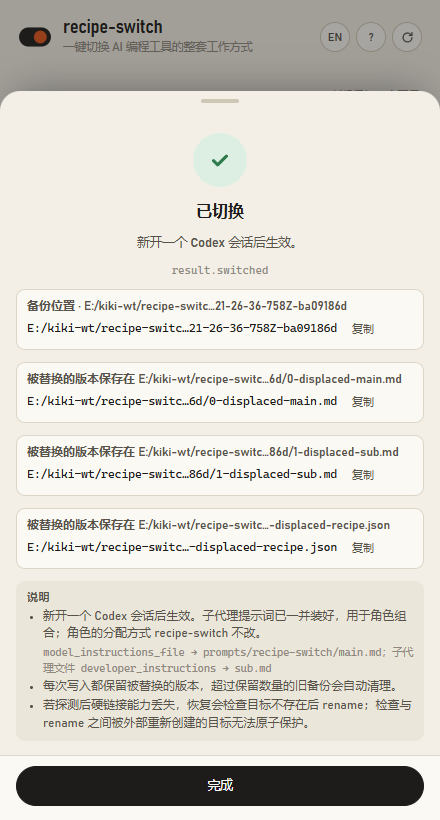
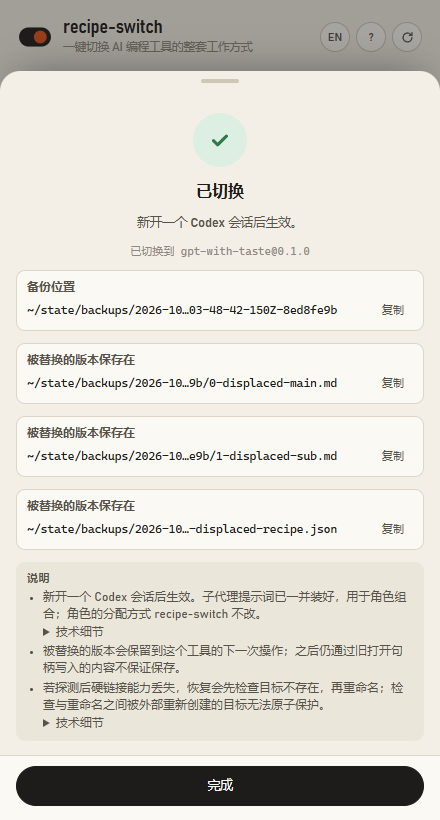
docs(R29): state recovery race, carrier cutoff and permission guarantees

Changed region(s): [[0.0295, 0.3354, 0.975, 0.8841], [0.0, 0.061, 1.0, 0.3354], [0.6795, 0.3049, 0.7091, 0.3354]]

diff --git a/README.md b/README.md
@@ -1,7 +1,7 @@
 # recipe-switch
 
 **Switch how your AI coding tools think and work.**
-*One click to install, switch, and roll back prompts, subagents, and per-turn reminders — with diff preview and byte-exact recovery.*
+*One click to install, switch, and roll back prompts, subagents, and per-turn reminders — with diff preview and original backups for recovery.*
 
 **English** · [简体中文](README.zh-CN.md) · [Documentation](https://nb-corp.github.io/recipe-switch/) · [中文文档](https://nb-corp.github.io/recipe-switch/zh/)
 
@@ -13,7 +13,7 @@ Normally, changing how your coding assistants work means hunting down different 
 
 We call that complete bundle of working instructions a **recipe**.
 
-**recipe-switch** is a zero-dependency local CLI and web panel (`127.0.0.1`) that installs, switches, customizes, and rolls back behavior recipes across **11 AI coding harnesses**. Every write shows a unified diff first, backs up your files, refuses to overwrite your manual edits silently, and restores your original setup byte-for-byte whenever you want out.
+**recipe-switch** is a zero-dependency local CLI and web panel (`127.0.0.1`) that installs, switches, customizes, and rolls back behavior recipes across **11 AI coding harnesses**. Every write shows a unified diff first, backs up your files, and blocks on manual edits unless you confirm an override. Rollback restores owned source spans; original snapshots restore complete saved file bytes, subject to the [recovery limits below](#safety-model).
 
 Requires **Node.js ≥ 22**. Zero npm dependencies.
 
@@ -27,8 +27,8 @@ Requires **Node.js ≥ 22**. Zero npm dependencies.
 - **Customizable with checkboxes.** Recipes can expose toggleable options (`--with` / `--without`) that include or exclude prompt files, prepend or append reminders, or patch specific Markdown sections on the fly.
 - **Diff preview before every write.** Every CLI command and UI action runs a dry-run diff first. Secrets (`Authorization`, `api_key`, `token`, `cookie`, `Bearer`) are redacted in the display while integrity checks compare exact bytes.
 - **Hand-edit protection.** Installed files and config keys carry a `managed by recipe-switch` marker and a recorded fingerprint. If you edit a managed file by hand, `recipe-switch` stops and warns you instead of clobbering your work. Confirming an override (`--force` or **Overwrite anyway (backed up)** in the UI) backs up your hand-edited version first.
-- **Byte-exact rollback and original backups.** Undo the latest switch (`rollback`), strip everything back to how your tool looked before (`uninstall`), or inspect and restore pre-install original snapshots (`originals` / `restore-original`).
-- **Leaves your models and credentials alone.** `recipe-switch` never edits your model selection, API provider, login credentials, MCP servers, or role definitions. Permissions stay untouched by default (OpenClaw's conversation-access hook key is only written if you explicitly check the opt-in box in the UI).
+- **Source-span rollback and original backups.** Undo the latest switch (`rollback`), remove owned changes (`uninstall`), or inspect and restore saved pre-install file bytes (`originals` / `restore-original`).
+- **Leaves your models and credentials alone.** `recipe-switch` never edits your model selection, API provider, login credentials, MCP servers, or role definitions. Harness authorization settings stay unchanged except for OpenClaw's explicit UI opt-in for conversation access; an existing denial still blocks installation. File permissions are handled separately: existing target DACLs (Windows) or owner/group and mode (POSIX) are applied to empty replacement files before payload, while recipe-switch's own storage is made private. If permissions cannot be secured or copied, writing stops.
 
 ![Diff preview before writing](docs/screenshots/ui-en-02-install.png)
 ![Hand edit blocks a switch until you decide](docs/screenshots/ui-en-03-blocked.png)
@@ -115,11 +115,11 @@ node bin/recipe-switch.mjs ui
 Editing local agent configurations should never feel risky. `recipe-switch` enforces seven layers of protection:
 
 1. **Preview before every write.** Every mutating CLI command defaults to dry-run mode and prints a unified diff (including line-ending and trailing-newline changes). You must pass `--yes` (or click **Write changes** in the UI) to touch the disk. If any file changes between preview and apply, the write aborts.
-2. **Hard-link preflight & automatic per-operation backups.** Before writing, `recipe-switch` stores exact pre-write bytes as deduplicated blobs and records them in `~/.recipe-switch/backups/<op-id>/index.json`. Hard links publish complete temporary files without replacing a new destination, so the preview stage first probes the target directory: **if the file system does not support hard links (common on FAT/exFAT and some network drives), the operation is blocked outright** with a notice that safe writes cannot be guaranteed there. When replacing an existing file on the same volume, the displaced old file is moved into the operation's backup directory, and **each harness keeps at most the most recent displaced version** — on the next operation it is deleted outright if already backed up, or saved into the new backup first if its content changed since. (Limit: content written through an old still-open file handle after that next operation is not guaranteed to survive.) On a cross-volume setup, the old file stays next to the target file, its path is recorded in the backup metadata and shown in the operation result, and `uninstall` will not delete it automatically.
+2. **Hard-link preflight & automatic per-operation backups.** Before writing, `recipe-switch` stores exact pre-write bytes as deduplicated blobs and records them in `~/.recipe-switch/backups/<op-id>/index.json`. Hard links publish complete temporary files without replacing a new destination, so the preview stage first probes the target directory: **if the file system does not support hard links (common on FAT/exFAT and some network drives), the operation is blocked outright** with a notice that safe writes cannot be guaranteed there. On the same volume, the displaced old file moves into the operation's backup directory; across volumes, it stays beside the target and its path appears in the backup metadata and result. **Each affected file path retains at most its latest displaced version.** Both locations follow the same retirement rules: the next related committed operation (including `uninstall`) reads and retires the prior carrier, saving changed bytes as a later-version blob first. The cutoff is **that one read when the tool's next operation retires the old version**, not the end of the operation; writes through an old open handle after that read are not guaranteed to survive. Uninstall may itself leave a new latest carrier.
 3. **Minimal, marked ownership.** Outside its own `recipe-switch/` directories (and Kimi Code's marked `SYSTEM.md` wrapper), `recipe-switch` only claims individual TOML lines (`# managed by recipe-switch`), single JSON keys or array items/records, or a single YAML block-list item. Unrelated keys, comments, and formatting spans in your config files are preserved.
 4. **Hand-edit drift detection.** Before switching, rolling back, or uninstalling, `recipe-switch` compares the live file against the fingerprint recorded when it was written. If you edited a managed prompt or removed a marker comment, the operation blocks. You can move your edits aside, or explicitly confirm an override (`--force` / **Overwrite anyway (backed up)**), which backs up your hand-edited version before replacing it.
-5. **Byte-exact rollback and uninstall.** `rollback` steps back one operation to your previous recipe (or original state). `uninstall` unwinds the entire stack for that harness, restores the original source spans (including whitespace and escaped JSON strings), and removes directories created by the loader if they are empty.
-6. **Original state backup & restore ("原始备份 / 恢复到装之前") — counted per install cycle.** One baseline snapshot is taken when a harness goes from not-installed to installed (`recipe-switch originals <harness>` and `recipe-switch restore-original <harness> [--yes]`, or **原始备份 / 恢复到装之前** in the UI), and it is not overwritten for the rest of that cycle; the snapshot date is shown next to the restore button. Uninstalling or restoring to the pre-install state ends the cycle, retires the snapshot, and immediately releases unreferenced blobs; the next install starts a fresh cycle. Installations upgraded from an older version backfill the snapshot from existing records, and where the complete original bytes are unrecoverable the snapshot is marked as a **reconstructed version** that needs an extra confirmation before restoring; when the harness is already at its pre-install state the button is disabled. Only existing files that will be modified in place are snapshotted, contents are stored once by SHA-256, and the backup directory is readable only by the current user (`icacls` on Windows, `0700`/`0600` on POSIX).
+5. **Rollback and uninstall restore original bytes/spans.** `rollback` steps back one operation; `uninstall` unwinds the target's stack, restores original source spans (including whitespace and escaped JSON strings), and removes empty directories created by the loader. **Known recovery race:** if hard links become unavailable and recovery falls back to rename, a target externally recreated between the absence check and rename will be overwritten. Stop other writers before recovery; if it stays pending, preserve the current file and follow the reported backup/recovery steps.
+6. **Original state backup & restore ("原始备份 / 恢复到装之前") — counted per install cycle.** One baseline snapshot is taken when a harness goes from not-installed to installed (`recipe-switch originals <harness>` and `recipe-switch restore-original <harness> [--yes]`, or **原始备份 / 恢复到装之前** in the UI), and it is not overwritten for the rest of that cycle; the snapshot date is shown next to the restore button. Uninstalling or restoring to the pre-install state ends the cycle, retires the snapshot, and immediately releases unreferenced blobs; the next install starts a fresh cycle. Installations upgraded from an older version backfill the snapshot from existing records, and where the complete original bytes are unrecoverable the snapshot is marked as a **reconstructed version** that needs an extra confirmation before restoring; when the harness is already at its pre-install state the button is disabled. Only existing files that will be modified in place are snapshotted, contents are stored once by SHA-256, and the whole state tree is secured before payload: Windows removes other accounts' grants while allowing existing SYSTEM/Administrators grants; POSIX uses `0700` directories and `0600` files. Existing files and explicit Everyone/Users grants are included. Failure stops writing.
 7. **Strict scope & localhost isolation.** Canonical path checks ensure no symlink or Windows junction can redirect writes outside the target harness home. The web UI binds strictly to `127.0.0.1`, requires a per-process random token (`x-recipe-switch-token`), and rejects cross-origin requests.
 
 ---

diff --git a/README.zh-CN.md b/README.zh-CN.md
@@ -1,7 +1,7 @@
 # recipe-switch
 
 **一键切换 AI 编程工具的整套工作方式。**
-*主提示词、子代理分工与每轮纠偏提醒，先看 diff 再落盘，随时逐字节还原。*
+*主提示词、子代理分工与每轮纠偏提醒，先看 diff 再落盘，保留原始备份供回滚。*
 
 [English](README.md) · **简体中文** · [中文文档](https://nb-corp.github.io/recipe-switch/zh/) · [Documentation (EN)](https://nb-corp.github.io/recipe-switch/)
 
@@ -13,7 +13,7 @@
 
 我们把这一整套协同工作的行为指令打包在一起，叫做一份**配方（Recipe）**。
 
-**recipe-switch** 是一个零 npm 依赖的本地命令行工具与竖屏小面板（只监听 `127.0.0.1`），支持在 **11 款主流 AI 编程工具（harness）** 之间一键安装、切换、勾选定制和回滚配方。每次写入前都会先展示逐文件 diff 预览、自动备份原文件、识别到你的手动修改时拒绝静默覆盖，并能随时逐字节恢复到修改前甚至安装前的原始状态。
+**recipe-switch** 是一个零 npm 依赖的本地命令行工具与竖屏小面板（只监听 `127.0.0.1`），支持在 **11 款主流 AI 编程工具（harness）** 之间一键安装、切换、勾选定制和回滚配方。每次写入前先展示逐文件 diff、备份原文件；检测到手改时，除非你明确确认覆盖，否则会阻断。回滚恢复受管源码跨度，原始快照恢复保存的完整文件字节；[下方安全机制](#安全与回滚机制)说明恢复边界。
 
 环境要求：**Node.js ≥ 22**，零第三方 npm 依赖。
 
@@ -27,8 +27,8 @@
 - **带复选框的配方选项。** 配方作者可以定义可勾选的开关（`--with` / `--without`），按需增减段落文件、在槽位前后追加提醒，或者直接定位某个 Markdown 标题做章节级修补。
 - **每次落盘前先看 Diff。** 无论是 CLI 还是本地面板，所有写操作默认先跑预览（dry run），清晰列出每个文件的增删行。形如 `Authorization`、`api_key`、`token`、`cookie`、`Bearer` 的敏感字段在预览界面会自动脱敏显示，而底层校验依然比对真实字节。
 - **手改检测，拒绝静默覆盖。** 托管的文件和配置行都会打上 `managed by recipe-switch` 标记并记录指纹。如果你事后手动改过提示词或删改了标记，切换、撤回和卸载都会立刻停下提醒你；只有当你明确确认"仍然覆盖（先备份）"（CLI 传 `--force`）时才会继续，并且会先把你的手改版本完整备份下来。
-- **逐字节回滚与原始状态恢复。** 可以用 `rollback` 撤回上一步回到上一份配方，用 `uninstall` 卸载全部改动还原现场，也可以用原始备份功能（`originals` / `restore-original`，UI 中的"原始备份 / 恢复到装之前"）直接恢复到第一次使用 `recipe-switch` 之前的初始状态。
-- **绝不越界碰你的模型与认证。** `recipe-switch` 只管行为提示层，绝不修改你的模型选择、API provider、登录凭据、MCP 服务或角色定义。默认不改任何权限配置（唯一的例外是 OpenClaw 的非内置插件对话访问权限，也只有在你在 UI 里主动勾选授权后才会写入，且卸载时恢复原样）。
+- **源码跨度回滚与原始备份。** 用 `rollback` 撤回上一步，用 `uninstall` 移除受管改动；原始备份功能（`originals` / `restore-original`，UI 中的"原始备份 / 恢复到装之前"）则恢复当前安装周期开始时保存的完整文件字节。
+- **绝不越界碰你的模型与认证。** `recipe-switch` 只管行为提示层，绝不修改你的模型选择、API provider、登录凭据、MCP 服务或角色定义。工具的授权设置保持不变，只有 OpenClaw 对话访问权限可经 UI 明确勾选后写入、卸载时还原；已有拒绝仍会阻断安装。文件权限另行保护：空替换文件在写入正文前先取得原目标的 DACL（Windows）或属主/组与 mode（POSIX），recipe-switch 自己的存储则会私有化。无法收紧或复制权限时拒绝写入。
 
 ![写入前 Diff 预览](docs/screenshots/ui-07-install-preview.png)
 ![检测到手动修改时自动拦截](docs/screenshots/ui-12-blocked.png)
@@ -115,11 +115,11 @@ node bin/recipe-switch.mjs ui
 改本地编程工具的配置最怕"改坏了回不去"或"把自己辛辛苦苦调好的提示词冲掉了"。`recipe-switch` 的安全边界由代码严格保证：
 
 1. **先预览 Diff，确认才落盘。** 所有写入命令默认都是 dry run，完整展示每个文件的 unified diff（包括换行符与文件末尾空行变化）。只有加了 `--yes` 或在 UI 点下"确认写入"才会真正修改磁盘。如果预览之后文件在外部发生了变化，写入会立即中止并要求重新预览。
-2. **硬链接预检与每次操作自动备份。** 每次写入、切换、撤回或卸载前，都会把受影响文件的原始字节存入去重的 blob，并在 `~/.recipe-switch/backups/<op-id>/index.json` 记录引用与 SHA-256 校验信息。硬链接用于发布完整的临时文件，且不会替换外部新建的目标，因此预览阶段会先探测目标目录：**如果文件系统不支持硬链接（常见于 FAT/exFAT 分区、部分网络盘），操作会被直接阻断**，并说明"无法保证安全写入"。被替换下来的旧文件，在处于同一磁盘卷时会移进本次操作的备份目录，且**每个工具最多保留最近一次被替换下来的旧版本**——到下一次操作时，内容已进入备份库的直接删除，内容有变化（说明之后有人写过）的先存进新备份再删（限制：在那次操作之后仍通过旧的、保持打开的文件句柄写入的内容不保证保存）。如果状态目录和目标文件不在同一个卷，旧文件就留在原文件旁边，路径写进备份记录和操作结果，卸载时不会自动删除，由你自行清理。
+2. **硬链接预检与每次操作自动备份。** 每次写入、切换、撤回或卸载前，都会把受影响文件的原始字节存入去重的 blob，并在 `~/.recipe-switch/backups/<op-id>/index.json` 记录引用与 SHA-256 校验信息。硬链接用于发布完整的临时文件，且不会替换外部新建的目标，因此预览阶段会先探测目标目录：**如果文件系统不支持硬链接（常见于 FAT/exFAT 分区、部分网络盘），操作会被直接阻断**，并说明"无法保证安全写入"。同卷时，被替换的旧文件移进本次操作的备份目录；跨卷时则留在目标旁边，路径写进备份记录和操作结果。**每个受影响文件路径最多保留最近一次被替换的旧版本。** 两种载体遵循同一套退休规则：下一次相关操作提交后（包括 `uninstall`）读取并退休旧载体，字节有变化时先存成“后来写入的版本”blob 再删除。截止点是**该工具下一次操作退休旧版本时的那一次读取**，不是整次操作结束；读取之后通过旧打开句柄写入的内容不保证保存。卸载本身也可能产生一份新的最近载体。
 3. **最小化且带标记的托管范围。** 除专属的 `recipe-switch/` 目录（及 Kimi Code 带标记的 `SYSTEM.md` 包装层）外，在你的 `config.toml`、`opencode.json`、`config.yaml` 等个人配置文件里，它只接管带 `# managed by recipe-switch` 注释的单行键值、单个 JSON 键值/数组元素，或 YAML 列表中的单个条目。文件里的其他配置、注释、转义字符和空白排版在卸载时都会按原样跨度（source span）精确恢复。
 4. **手动修改检测与拦截。** 每次改动前都会核对受管单元的指纹。只要你手动编辑过受管文件或删改了标记注释，界面就会亮起"有手改"黄灯，并拦截切换或还原操作。你可以先把自己的修改移走，也可以点**"仍然覆盖（先备份）"**（或 CLI 传 `--force`）——工具会先把你的手改版本完整备份下来，并在结果里告诉你备份路径。
-5. **逐级撤回（`rollback`）与完整还原（`uninstall`）。** `rollback` 撤回最近一次安装或切换，回到上一份配方；`uninstall` 撤销该工具上的全部历史操作，删掉工具新建的空目录，逐字节恢复原状。
-6. **原始状态备份与恢复到装之前（"原始备份 / 恢复到装之前"）——按安装周期计。** 每次从未安装状态装上时拍一份基线快照（CLI 命令 `recipe-switch originals <harness>` 与 `recipe-switch restore-original <harness> [--yes]`，界面上叫**"原始备份 / 恢复到装之前"**），周期内不再覆盖，恢复按钮旁直接显示快照日期。完全卸载或恢复到装之前后周期结束，快照退役，没人引用的备份内容立即释放；下次安装重新开周期拍新快照。从旧版升级的安装会自动用旧记录补齐快照，拿不到完整原文时标为**"重建版本"**、恢复前需额外确认；已经是装之前的状态时按钮禁用。快照只存被改动文件的原样一份、按 SHA-256 去重，且备份目录只有当前用户可读（Windows 用 `icacls` 收紧，POSIX 用 `0700`/`0600`）。
+5. **逐级撤回（`rollback`）与还原（`uninstall`）。** `rollback` 撤回最近一次操作；`uninstall` 撤销该目标的操作栈，恢复原始字节/源码跨度，并清理工具新建的空目录。**已知恢复竞态：** 如果硬链接不可用而恢复回退到 rename，在“检查目标不存在”和“rename”之间被外部重新创建的目标会被覆盖。恢复前请停止其他写入者；如果恢复仍受阻，请保留当前文件并按提示的备份路径和步骤处理。
+6. **原始状态备份与恢复到装之前（"原始备份 / 恢复到装之前"）——按安装周期计。** 每次从未安装状态装上时拍一份基线快照（CLI 命令 `recipe-switch originals <harness>` 与 `recipe-switch restore-original <harness> [--yes]`，界面上叫**"原始备份 / 恢复到装之前"**），周期内不再覆盖，恢复按钮旁直接显示快照日期。完全卸载或恢复到装之前后周期结束，快照退役，没人引用的备份内容立即释放；下次安装重新开周期拍新快照。从旧版升级的安装会自动用旧记录补齐快照，拿不到完整原文时标为**"重建版本"**、恢复前需额外确认；已经是装之前的状态时按钮禁用。快照只存被改动文件的原样一份、按 SHA-256 去重，整个状态树都在写入正文前收紧权限：Windows 清除其他账户的授权，允许保留已有 SYSTEM/Administrators 授权；POSIX 目录用 `0700`、文件用 `0600`。已有文件及显式 Everyone/Users 授权同样处理，失败则拒绝写入。
 7. **路径边界锁定与本机隔离。** 写入前通过真实规范路径（canonical path）校验目标边界，防止符号链接或 Windows 目录联接（junction）将写入引向工具目录之外。Web UI 仅绑定 `127.0.0.1`，每次启动生成独立的进程级随机 Token，并拒绝非本机 `Origin` 与异常 `Host` 请求。
 
 ---

diff --git a/docs/safety.md b/docs/safety.md
@@ -7,7 +7,7 @@ h1: Safety, Backups & Rollback
 kicker: Reference
 ---
 
-`recipe-switch` edits configuration files inside your daily coding tools (`~/.codex`, `~/.claude`, `~/.kiki`, `~/.pi`, `~/.dsh`, `~/.kimi-code`, etc.). It is engineered so that **no write is a surprise, no manual edit is silently lost, and every change can be undone byte-for-byte.**
+`recipe-switch` edits configuration files inside your daily coding tools (`~/.codex`, `~/.claude`, `~/.kiki`, `~/.pi`, `~/.dsh`, `~/.kimi-code`, etc.). It previews writes, backs up exact bytes, and blocks on detected manual edits unless you confirm an override. Rollback restores owned source spans; original snapshots restore complete saved files. The transaction section below explains the recovery race and old-handle retention cutoff.
 
 ## 1. Dry-Run Diff Preview Before Every Write
 
@@ -61,11 +61,11 @@ Before mutating any target file:
 1. A file lock serializes operations across concurrent CLI invocations and UI requests.
 2. Canonical path checks (`assertBoundary`) verify that no symlink or Windows junction redirects any target file outside the harness home directory.
 3. Exact pre-write bytes are stored as durable blobs, `backups/<op-id>/index.json` records their references, and `pending.json` is flushed to disk.
-4. **Displaced old files are kept only until the next operation.** When replacing an existing file on the same disk volume, the displaced old file is moved into the operation's `backups/<op-id>/` directory. Each harness keeps **at most the most recent displaced version**: on the following operation, a displaced file whose content already entered the backup store is deleted outright, while one whose content differs (someone wrote to it afterwards) is saved into the new operation's backup before deletion. If the state directory and the target live on different volumes, the old file is kept next to the target file, its path is recorded in the backup metadata and printed in the operation result, and `uninstall` will not delete it automatically so you can clean it up yourself.
-5. If an error or crash interrupts a multi-file write before `state.json` commits, the very next command automatically runs `store.recover()`, reverting any partially written files back to their pre-operation bytes. (If you edited a file after the crash, recovery preserves your manual edit and reports the backup path for a manual decision.)
+4. **Each affected file path retains at most its latest displaced version.** On the same volume, the old inode moves to `backups/<op-id>/`; across volumes, it remains beside the target and its path appears in the backup metadata and result. Both follow the same retirement rules: the next related committed operation (including `uninstall`) reads and retires the prior carrier, first saving changed bytes as a later-version blob. The cutoff is **that one read when the tool's next operation retires the old version**, not the end of the operation. Writes through an old open handle after that read are not guaranteed to survive. Uninstall can itself create a new latest carrier.
+5. If an error or crash interrupts a multi-file write before `state.json` commits, the next operation that loads state runs `store.recover()` to restore pre-operation bytes. If recovery cannot finish, `pending.json` stays in place and CLI/API/UI report the current and expected content fingerprints, backup location and recovery steps. Preserve the current file before restoring from backup or retrying with hard-link support restored.
 
 <div class="note warn" markdown="1">
-**Limit:** a displaced version survives only until that harness's next operation. Content written afterwards through an old, still-open file handle is not guaranteed to be preserved.
+**Known recovery race:** when hard links are unavailable and recovery falls back to rename, a target externally recreated between the “target absent” check and `rename` will be overwritten. This check and rename are not atomic; stop other writers before recovery. Ordinary drift blocking does not cover this interval.
 </div>
 
 ## 6. Rollback vs. Uninstall vs. Original State Backup
@@ -84,7 +84,8 @@ Before mutating any target file:
 - **A cycle ends** when the harness is fully uninstalled or restored to its pre-install state. The snapshot retires with it, and any backup blobs no longer referenced by anything are released immediately. The next installation starts a new cycle with a fresh snapshot.
 - **Upgrades backfill automatically.** Installations upgraded from an older `recipe-switch` version automatically reconstruct the snapshot from existing records. Where the complete original bytes can no longer be recovered, the snapshot is marked as a **reconstructed version (重建版本)** and restoring it requires an extra confirmation.
 - **Already at the pre-install state?** The restore button is disabled — there is nothing to go back to.
-- **Only your user can read the backup directory.** On Windows, `recipe-switch` tightens the ACL with `icacls`; on POSIX systems it enforces `0700` on directories and `0600` on files.
+- **Private storage before payload.** The state root, state/pending journals, blobs, operation backups, probe records and temporary files are secured before writing. Windows uses `icacls` to remove inheritance and other accounts' explicit grants, including pre-existing Everyone/Users grants; existing SYSTEM and Administrators grants may remain for maintenance and recovery. POSIX directories use `0700` and files `0600`, including existing files. Failure stops writing. Empty replacement targets receive the original DACL (Windows) or owner/group and mode (POSIX) before payload, so replacing a private config cannot expose an unchanged API key. Recovery without a permission source uses private permissions instead of wider parent inheritance.
+- **Harness authorization is separate.** Models, providers, credentials and authorization settings are not changed. The OpenClaw conversation-access key is an explicit UI opt-in, restored on uninstall; an existing `false` is never overridden, even by `--force`.
 - **Tiny footprint.** Only existing files that will be modified in place get a content snapshot (files that did not exist are recorded as "originally absent"), and identical content is stored once by SHA-256 — never duplicated.
 
 ![Original backup and dated restore action]({{ '/screenshots/ui-en-16-originals.png' | relative_url }})

diff --git a/docs/zh/safety.md b/docs/zh/safety.md
@@ -7,7 +7,7 @@ h1: 安全模型、备份与回滚
 kicker: 参考
 ---
 
-`recipe-switch` 操作的是你每天写代码都要用的工具目录（`~/.codex`、`~/.claude`、`~/.kiki`、`~/.pi`、`~/.dsh`、`~/.kimi-code` 等）。它的核心工程原则是：**没有任何一次写入是暗箱操作，没有任何一行手动修改会被悄悄冲掉，任何时候都能逐字节回到从前。**
+`recipe-switch` 操作的是你每天写代码都要用的工具目录（`~/.codex`、`~/.claude`、`~/.kiki`、`~/.pi`、`~/.dsh`、`~/.kimi-code` 等）。它会先预览写入、备份精确字节，检测到手改时，除非你明确确认覆盖，否则会阻断。回滚恢复受管源码跨度，原始快照恢复保存的完整文件。下方事务说明列出了恢复竞态和旧句柄写入的保留截止点。
 
 ## 1. 每次写入前先看 Diff 预览
 
@@ -61,11 +61,11 @@ kicker: 参考
 1. 进程间文件锁保证 CLI 与 Web UI 请求严格串行。
 2. 真实规范路径检查（`assertBoundary`）确保没有任何符号链接或 Windows junction 能把写入导向工具目录之外。
 3. 先将操作前的精确字节持久化为 blob，在 `backups/<op-id>/index.json` 记录引用，再将恢复信息刷入 `pending.json`。
-4. **被替换下来的旧版本只保留到下一次操作。** 同卷替换时，被替换下来的旧文件会移进本次操作的备份目录（`backups/<op-id>/`）；**每个工具最多保留最近一次被替换下来的旧版本**：到下一次操作时，内容已经进入备份库的直接删除；内容不同的（说明之后有人写过），先存进新的备份再删。如果状态目录与目标文件不在同一个卷，旧文件就留在原文件旁边，路径写进备份记录和操作结果，卸载时不会自动删除，由用户自己清理。
-5. 如果在多文件写入中途遭遇断电或进程崩溃，下一次运行任何 `recipe-switch` 命令时都会自动执行 `store.recover()`，将半途写入的文件精确回滚到操作前的字节。（如果崩溃后你又手动编辑了该文件，恢复逻辑会保留你的手动修改，并打印备份路径交由你决定。）
+4. **每个受影响文件路径最多保留最近一次被替换的旧版本。** 同卷时，旧 inode 移进 `backups/<op-id>/`；跨卷时留在目标旁边，路径写进备份记录和操作结果。两种载体遵循同一套退休规则：下一次相关操作提交后（包括 `uninstall`）读取并退休旧载体，字节有变化时先存成“后来写入的版本”blob。截止点是**该工具下一次操作退休旧版本时的那一次读取**，不是整次操作结束；读取之后通过旧打开句柄写入的内容不保证保存。卸载本身也可能产生一份新的最近载体。
+5. 多文件写入在 `state.json` 提交前出错或崩溃时，下一次读取状态的操作会执行 `store.recover()`，恢复操作前的字节。如果无法完成，`pending.json` 会保留，CLI/API/UI 会显示当前内容与期望内容的指纹、备份位置和恢复步骤。请先保留当前文件，再从备份恢复，或恢复硬链接能力后重试。
 
 <div class="note warn" markdown="1">
-**限制**：被替换的版本只保留到该工具的下一次操作；在那之后仍通过旧的、保持打开的文件句柄写入的内容不保证保存。
+**已知恢复竞态：** 如果硬链接不可用而恢复回退到 rename，在“检查目标不存在”和“rename”之间被外部重新创建的目标会被覆盖。检查与重命名不是原子操作；恢复前请停止其他写入者。常规手改拦截无法保护这个时间窗口。
 </div>
 
 ## 6. 撤回上一步 vs. 还原 vs. 原始状态备份
@@ -84,7 +84,8 @@ kicker: 参考
 - **周期结束即退役。** 完全卸载、或执行"恢复到装之前"后，该周期结束，快照随之退役；不再被任何记录引用的备份内容会立即释放。下次安装重新开周期、重新拍快照。
 - **从旧版本升级自动补齐。** 从旧版 `recipe-switch` 升级过来的安装，会自动用已有记录补齐快照；拿不到完整原文时，快照会被标为**"重建版本"**，恢复前需要额外确认。
 - **已经是装之前的状态时**，恢复按钮会直接禁用——没有可回退的内容。
-- **备份目录只有当前用户可读。** Windows 下用 `icacls` 收紧目录权限；POSIX 系统下目录强制 `0700`、文件强制 `0600`。
+- **写入正文前先落实私有权限。** 状态根目录、state/pending 日志、blobs、操作备份、probe 记录及临时文件都会先收紧权限。Windows 用 `icacls` 去掉继承和其他账户的显式授权，包括已有 Everyone/Users 授权；已有 SYSTEM 与 Administrators 授权可保留，供系统维护和恢复。POSIX 目录用 `0700`、文件用 `0600`，已有文件同样收紧；失败就拒绝写入。空替换文件会先取得原目标的 DACL（Windows）或属主/组与 mode（POSIX），避免私有配置中未改动的 API key 因替换而暴露。恢复时若已没有权限来源，使用私有权限，而不继承较宽的父目录权限。
+- **工具授权与文件权限分别处理。** 不修改模型、provider、凭据和授权设置。OpenClaw 对话访问键只在 UI 明确勾选后写入，卸载时还原；已有 `false` 即便 `--force` 也不会覆盖。
 - **占用空间很小。** 原始备份只给会被原地修改的已有文件存快照（原来不存在的文件只记一笔"原来不存在"），且文件内容按 SHA-256 去重——相同内容只存一份。
 
 ![原始备份与带日期的恢复按钮]({{ '/screenshots/ui-16-originals.png' | relative_url }})

diff --git a/docs/faq.md b/docs/faq.md
@@ -45,11 +45,11 @@ You have three options depending on how far back you want to go:
   node bin/recipe-switch.mjs originals <harness>
   node bin/recipe-switch.mjs restore-original <harness> --yes
   ```
-In the local web UI (`recipe-switch ui`), open the tool card and click **Undo last change**, **Restore**, or **原始备份 / 恢复到装之前**.
+In the local web UI (`recipe-switch ui`), open the tool card and click **Undo last change**, **Restore**, or **原始备份 / 恢复到装之前**. Stop other writers before recovery: if hard links are unavailable and recovery falls back to rename, a target externally recreated between the absence check and rename will be overwritten. This is a known recovery race; if recovery stays pending, preserve the current file and follow the backup/recovery steps shown by `status`.
 
 ### When does `recipe-switch` refuse to install at all?
 
-Two situations stop an install before anything is written:
+Common blockers include:
 - **The file system cannot do hard links.** The preview stage probes the target directory; FAT/exFAT volumes and some network drives fail the probe, and the operation blocks with a notice that safe writes cannot be guaranteed there. Move the harness home to NTFS/APFS/ext4.
 - **You explicitly denied a permission.** For OpenClaw, an existing `allowConversationAccess: false`, `allowPromptInjection: false`, `plugins.enabled: false`, or a `plugins.deny` entry is never overridden — even with `--force`.
 
@@ -57,7 +57,7 @@ Two situations stop an install before anything is written:
 
 **Storage overhead is tiny: `recipe-switch` only stores one copy of the original files it modifies, deduplicated by content.**
 - **Original backups are counted per install cycle**: one snapshot is taken when a harness goes from not-installed to installed, and it is not overwritten for the rest of that cycle. Uninstall (or restore to the pre-install state) ends the cycle, retires the snapshot, and immediately releases any backup blobs nothing references anymore. Only existing files that will be modified in place are snapshotted; identical content is stored once by SHA-256.
-- **Displaced old files are kept only until the next operation.** Each harness keeps at most the most recent displaced version. On the next operation, a displaced file already in the backup store is deleted outright; one whose content changed since (someone wrote to it afterwards) is saved into the new backup first. On a cross-volume setup the old file stays next to the target and `uninstall` leaves it for you to clean up. Note the limit: after that next operation, content written through an old still-open file handle is not guaranteed to survive.
+- **Each affected file path retains at most its latest displaced version.** Same-volume carriers live in the operation backup; cross-volume carriers stay beside the target. Both follow the same retirement rules, including `uninstall`: the next related committed operation reads and retires the prior carrier, first saving changed bytes as a later-version blob. The cutoff is **that one read when the tool's next operation retires the old version**, not the end of the operation. Later writes through an old open handle are not guaranteed to survive. Uninstall can itself leave a new latest carrier.
 
 ### What happens if I edit a prompt or config file by hand after installing a recipe?
 
@@ -67,11 +67,11 @@ Any subsequent `switch`, `rollback`, or `uninstall` will **stop and block** rath
 
 ### Does `recipe-switch` touch my API keys, model choices, providers, or MCP servers?
 
-**No.** `recipe-switch` only writes behavior prompt files and the minimal config keys needed to load them. It never reads or modifies your model selection, API keys, provider URLs, MCP servers, or agent role definitions. Furthermore, when displaying unified diffs in the CLI or UI, any adjacent lines in your config files that look like secrets (`api_key`, `token`, `password`, `Authorization`, `Bearer`) are automatically redacted.
+**No.** `recipe-switch` only writes behavior prompt files and the minimal config keys needed to load them. It does not change your model selection, API keys, provider URLs, MCP servers, or agent role definitions. It reads and backs up complete affected config files, so unchanged credentials may be present in private backups. Furthermore, when displaying unified diffs in the CLI or UI, any adjacent lines in your config files that look like secrets (`api_key`, `token`, `password`, `Authorization`, `Bearer`) are automatically redacted.
 
 ### Who can read the backup directory?
 
-Only you. The state and backup directory (`~/.recipe-switch`) is locked to the current user: on Windows `recipe-switch` tightens the ACL with `icacls`, and on POSIX systems it enforces `0700` on directories and `0600` on files.
+Before payload, the state root, state/pending journals, blobs, operation backups, probe records and temporary files are secured, including existing files. Windows uses `icacls` to remove inheritance and other accounts' explicit grants (including Everyone/Users), while retaining existing SYSTEM/Administrators grants for maintenance and recovery. POSIX uses `0700` directories and `0600` files. Failure stops writing. Existing target DACLs or POSIX owner/group and mode are copied to empty temp files before payload; recovery without a permission source uses private permissions.
 
 ### Why does OpenClaw ask for "Grant recipe-switch conversation access"?
 

diff --git a/docs/zh/faq.md b/docs/zh/faq.md
@@ -50,11 +50,13 @@ Kimi Code CLI 从 `~/.kimi-code/SYSTEM.md` 读取系统提示词，并从 `~/.ki
    node bin/recipe-switch.mjs originals <harness>
    node bin/recipe-switch.mjs restore-original <harness> --yes
    ```
-   （对应 Web 面板中的**"原始备份 / 恢复到装之前"**，无论中间切换过多少次或做过强制覆盖，都能直接恢复到当前安装周期开始时的初始快照。）
+   （对应 Web 面板中的**"原始备份 / 恢复到装之前"**，恢复当前安装周期开始时保存的完整文件字节。）
+
+恢复前请停止其他写入者：如果硬链接不可用而恢复回退到 rename，在“检查目标不存在”和“rename”之间被外部重新创建的目标会被覆盖。这是已知恢复竞态。如果恢复仍受阻，请保留当前文件，按 `status` 显示的备份位置和步骤处理。
 
 ### 什么情况下 `recipe-switch` 会直接拒绝安装？
 
-有两种情况会在写入任何东西之前就停下：
+常见的阻断原因有：
 - **文件系统不支持硬链接。** 预览阶段会探测目标目录，FAT/exFAT 分区和部分网络盘会探测失败，操作被阻断并说明"无法保证安全写入"。请把工具目录挪到 NTFS/APFS/ext4 之类的文件系统再试。
 - **你显式拒绝过某项权限。** 对 OpenClaw 而言，`openclaw.json` 里已有的 `allowConversationAccess: false`、`allowPromptInjection: false`、`plugins.enabled: false` 或 `plugins.deny` 条目会被直接尊重——即便传 `--force` 也绝不覆盖。
 
@@ -62,7 +64,7 @@ Kimi Code CLI 从 `~/.kimi-code/SYSTEM.md` 读取系统提示词，并从 `~/.ki
 
 **占用空间很小：只存被改动文件的原样一份，相同内容去重。**
 - **原始备份按"安装周期"计**：每次从未安装状态装上时拍一份快照，周期内不覆盖。完全卸载或"恢复到装之前"后周期结束，快照退役，不再被引用的备份内容立即释放。只有会被原地修改的已有文件才存快照，内容按 SHA-256 去重。
-- **被替换下来的旧版本只保留到下一次操作**：每个工具最多保留最近一次被替换下来的旧版本。到下一次操作时，内容已经进入备份库的直接删除；内容有变化的（说明之后有人写过）先存进新备份再删。跨卷时旧文件留在原文件旁边，卸载不会自动删除，由你自己清理。注意限制：在那次操作之后仍通过旧的、保持打开的文件句柄写入的内容不保证保存。
+- **每个受影响文件路径最多保留最近一次被替换的旧版本**：同卷载体放在操作备份中，跨卷载体留在目标旁边，二者遵循同一套退休规则，包括 `uninstall`。下一次相关操作提交后读取并退休旧载体，字节有变化时先存成“后来写入的版本”blob。截止点是**该工具下一次操作退休旧版本时的那一次读取**，不是整次操作结束；此后通过旧打开句柄写入的内容不保证保存。卸载本身也可能留下一份新的最近载体。
 
 ### 装上配方后，我又手动改了提示词或配置文件，会发生什么？
 
@@ -72,11 +74,11 @@ Kimi Code CLI 从 `~/.kimi-code/SYSTEM.md` 读取系统提示词，并从 `~/.ki
 
 ### `recipe-switch` 会改我的模型、API Key、Provider 或 MCP 配置吗？
 
-**绝不会。** `recipe-switch` 只写提示词文件和挂载它们所需的最小配置项，绝不触碰模型选择、provider 地址、登录凭据、MCP 服务或角色定义。而且在 CLI 和 UI 展示 diff 预览时，配置文件中相邻行里形如 `Authorization`、`api_key`、`token`、`password`、`cookie`、`Bearer` 的值都会自动做 `[redacted]` 脱敏显示。
+**绝不会。** `recipe-switch` 只写提示词文件和挂载它们所需的最小配置项，不改模型选择、provider 地址、登录凭据、MCP 服务或角色定义。它会读取并备份受影响的完整配置文件，因此未改动的凭据可能包含在私有备份里。而且在 CLI 和 UI 展示 diff 预览时，配置文件中相邻行里形如 `Authorization`、`api_key`、`token`、`password`、`cookie`、`Bearer` 的值都会自动做 `[redacted]` 脱敏显示。
 
 ### 备份目录别人能读到吗？
 
-不能。状态与备份目录（`~/.recipe-switch`）只有当前用户可读：Windows 下用 `icacls` 收紧权限；POSIX 系统下目录强制 `0700`、文件强制 `0600`。
+写入正文前，状态根目录、state/pending 日志、blobs、操作备份、probe 记录和临时文件都会收紧权限，包括已有文件。Windows 用 `icacls` 去继承、清除非当前用户的显式授权（包括 Everyone/Users），但可保留已有 SYSTEM/Administrators 授权供维护与恢复；POSIX 目录用 `0700`、文件用 `0600`。失败就拒绝写入。替换已有目标时，先给空 temp 复制原 DACL 或 POSIX 属主/组与 mode，再写正文；恢复时权限来源缺失则使用私有权限。
 
 ### 为什么 OpenClaw 里有一个"授予 recipe-switch 插件对话访问权限"开关？
 
